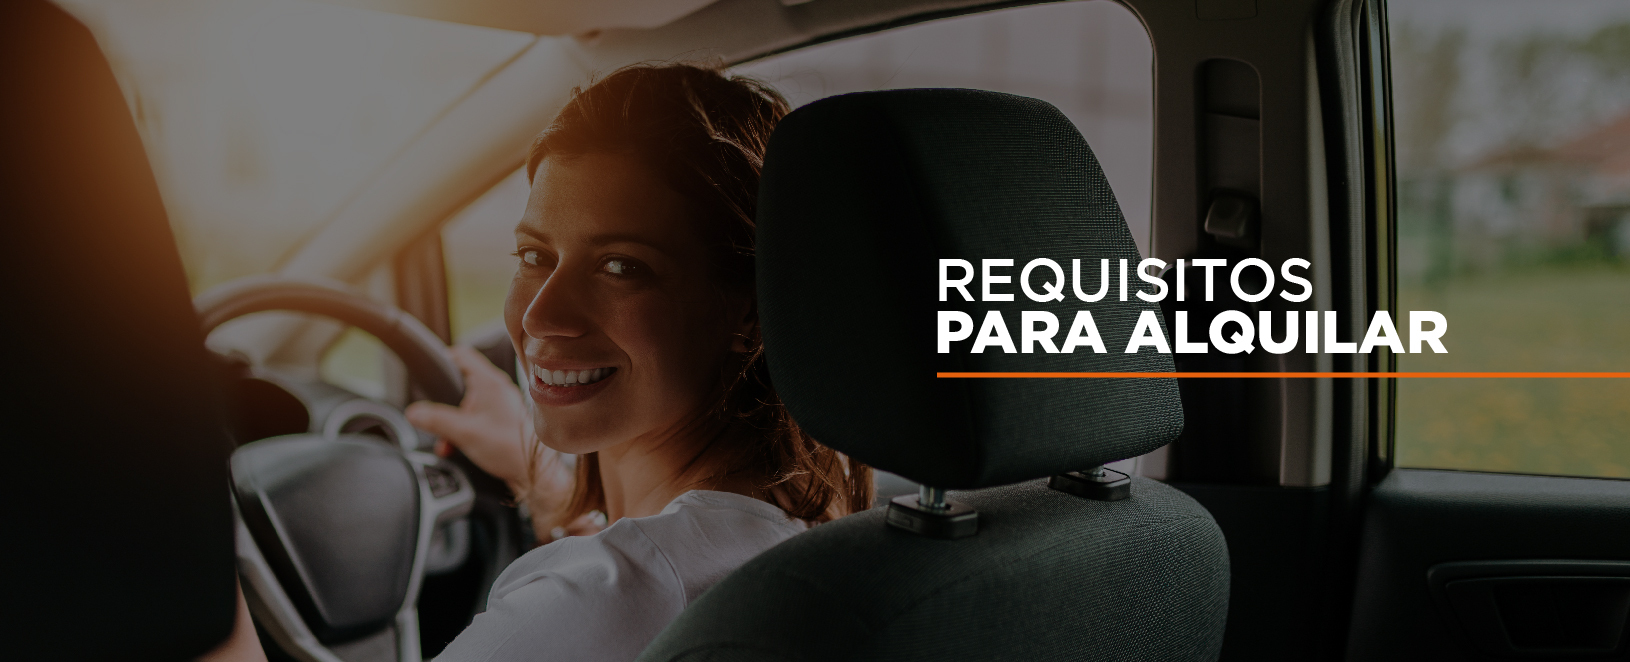
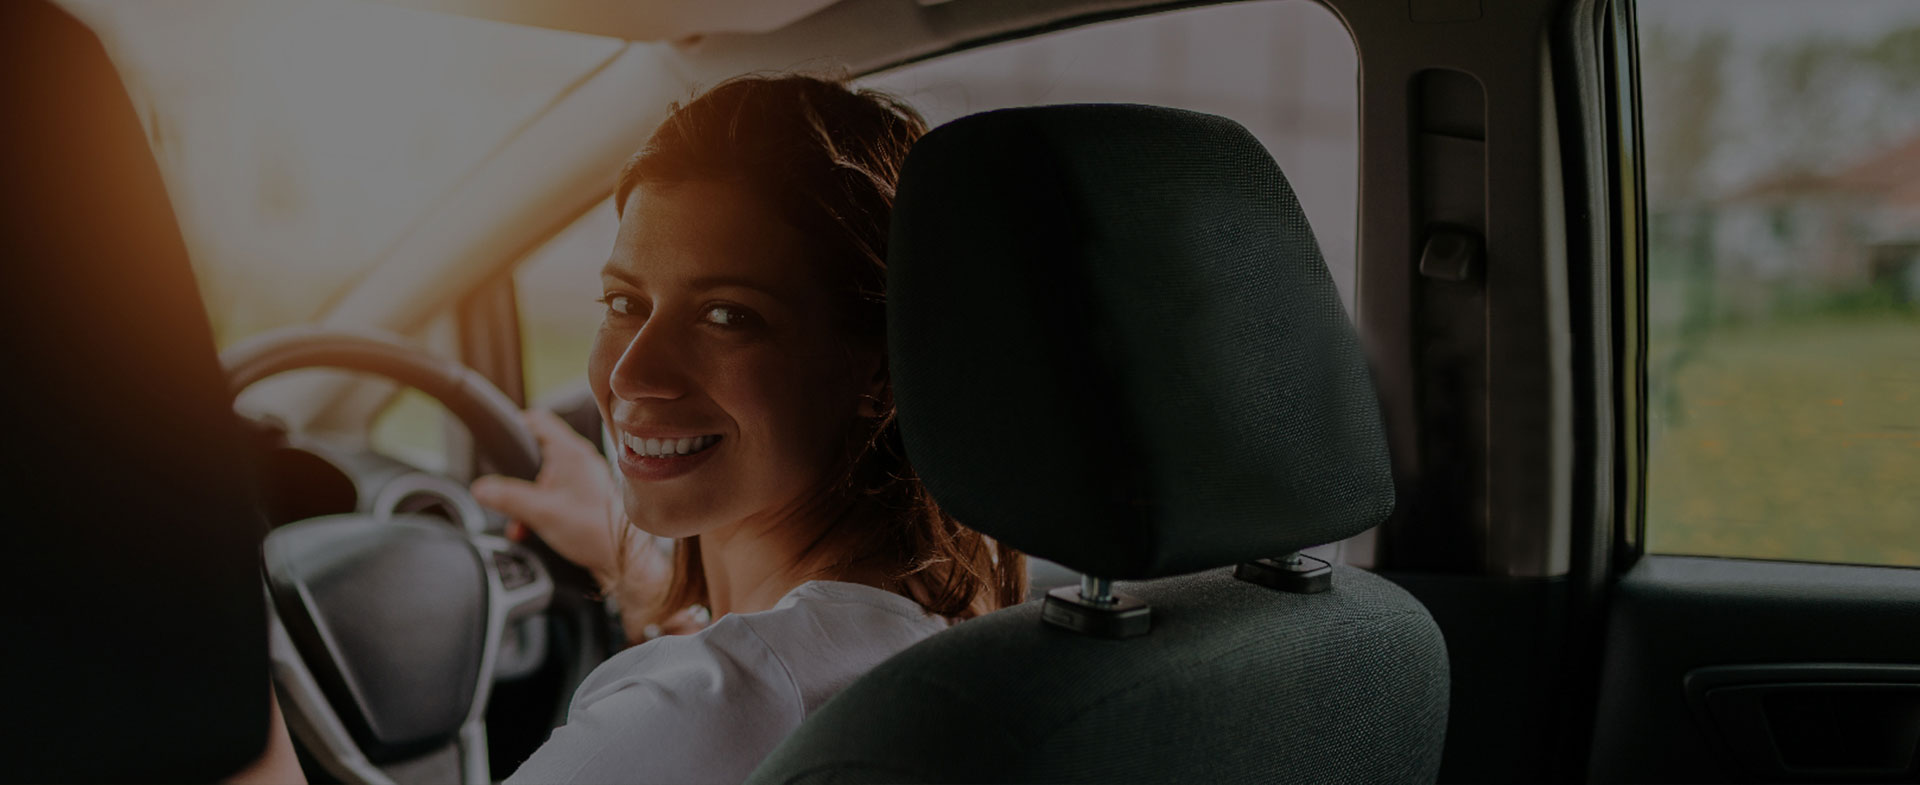
Imagen mas grande y titulo como texto

diff --git a/index.html b/index.html
@@ -562,7 +562,12 @@ stopAtSlide:1,
 		<div class="container">
             <div class="row justify-content-end">
                 <div class="col-lg-8">
-                    <div class="section-title section-title-left">
+                    <div class="content-desktop section-title section-title-left" style="border-bottom: 3px #E4620E solid;">
+                        <h1 class="content-desktop   text-white trn" style="font-size: 5em; font-weight: 400;">REQUISITOS <br> <strong>PARA ALQUILAR</strong> 
+                        </h1>
+                       
+                    </div>
+                    <div class="content-mobile section-title section-title-left">
                         <h1 class="content-mobile  title text-white italic trn">Requisito Para Alquilar
                         </h1>
                         <span class="content-mobile text-white  trn">Estamos a tu disposición para asesorarte y ayudarte a encontrar el auto perfecto para vos 
